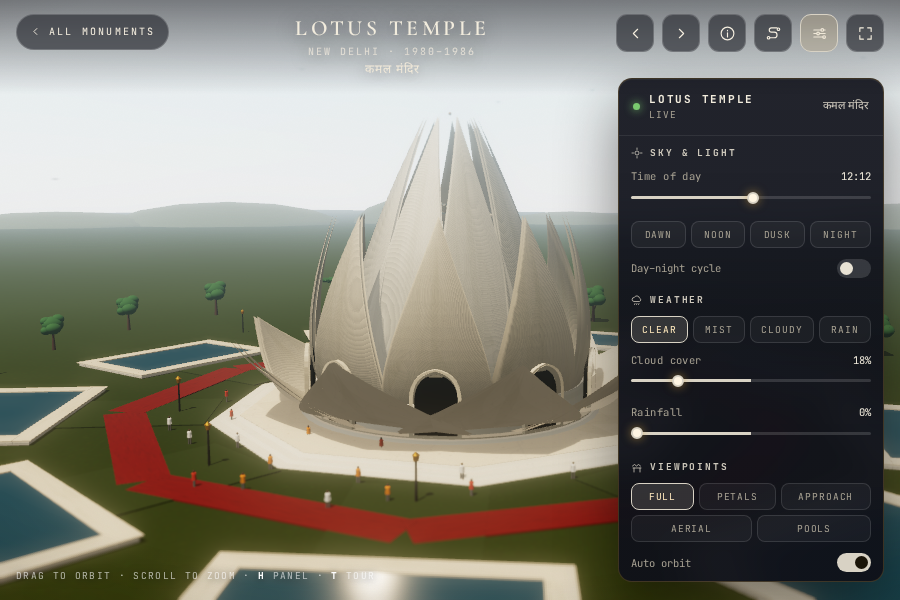
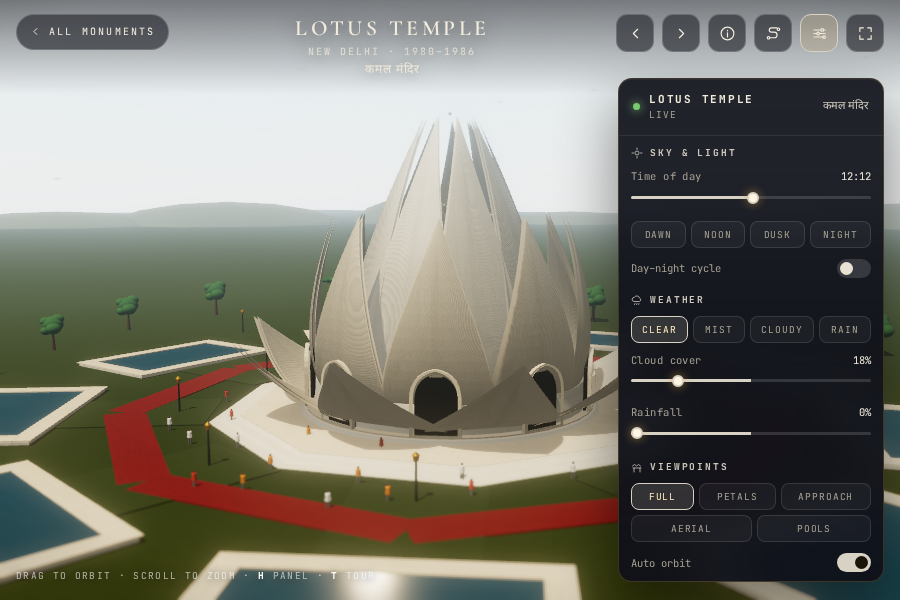
Engine: per-monument hemisphere scale; Lotus canopies narrowed
hemiScale joins floodScale: a module can lift the sky fill without changing the
engine's default for everyone. The Lotus asks for 1.9, because white marble in
shade needs more ambient than a sandstone fort does.

The canopy leaves are also narrowed from 9.6 to 6.9 half-width, so nine of them
do not overlap into a continuous skirt.

The grey band at the base is NOT fixed. Six attempts now — warmer material,
emissive, bounce light, an inner liner in a flat material, narrower canopies and
a doubled hemisphere — and the render has not moved once. Whatever those
surfaces are, my model of them is wrong, and another guess is not worth making.
Ruled out: material colour, emissive, a fill light, petal width, ambient level.

diff --git a/monuments/meenakshi-temple.html b/monuments/meenakshi-temple.html
@@ -8,8 +8,8 @@
 <meta name="theme-color" content="#d4544a">
 <meta name="author" content="Dr Sohil Momin">
 <link rel="icon" href="../assets/img/favicon.svg" type="image/svg+xml">
-<link rel="stylesheet" href="../assets/css/fonts.css?v=8a3644bd7f">
-<link rel="stylesheet" href="../assets/css/monument.css?v=8a3644bd7f">
+<link rel="stylesheet" href="../assets/css/fonts.css?v=ce1cd8d8c4">
+<link rel="stylesheet" href="../assets/css/monument.css?v=ce1cd8d8c4">
 <meta property="og:type" content="website">
 <meta property="og:title" content="Meenakshi Temple — 3D miniature · INDIA">
 <meta property="og:description" content="Fourteen painted gopurams above the Vaigai at Madurai, a temple city dedicated to Meenakshi and Sundareswarar.">
@@ -31,11 +31,11 @@
 <div id="app"></div>
 <noscript><div class="noscript">This page renders Meenakshi Temple as a live 3D model and needs JavaScript and WebGL. You can still read about the monument on <a href="https://en.wikipedia.org/wiki/Meenakshi_Temple">Wikipedia</a>.</div></noscript>
 
-<script src="../assets/js/index-data.js?v=8a3644bd7f"></script>
+<script src="../assets/js/index-data.js?v=ce1cd8d8c4"></script>
 <script>window.MONUMENT_DATA = {"name": "Meenakshi Temple", "deva": "मीनाक्षी मंदिर", "place": "Madurai", "state": "Tamil Nadu", "era": "Pandya and Vijayanagara · 12th–17th c.", "period": "12th–17th century", "style": "Dravidian", "unesco": "—", "wikipedia": "https://en.wikipedia.org/wiki/Meenakshi_Temple", "history": ["The Meenakshi Sundareswarar temple stands on the southern bank of the Vaigai at Madurai, dedicated to Meenakshi, a form of Parvati, and her consort Sundareswarar, Shiva. Sangam literature describes the temple city; the earliest structures date from Pandya rule in the 12th and 13th centuries.", "Much of the present complex was rebuilt in the 14th century and enlarged under the Vijayanagara Empire and the Nayaks, who added the great gopurams, the pillared halls and the Golden Lotus tank. Fourteen gopurams rise above the streets, the tallest nearly 52 metres high, covered in thousands of painted stucco figures.", "Inside are the Hall of a Thousand Pillars, the Potramarai tank where pilgrims bathe, and shrines to both deities. The temple remains a working centre of Tamil religious life, with around 33,000 sculptures across the complex and daily processions through the streets of the old city."], "facts": [{"k": "Dedicated to", "v": "Meenakshi and Sundareswarar"}, {"k": "Early structures", "v": "12th–13th century, Pandya"}, {"k": "Expanded by", "v": "Vijayanagara and Nayak rulers"}, {"k": "Gopurams", "v": "Fourteen, the tallest about 52 m"}, {"k": "Inside", "v": "Hall of a Thousand Pillars, Golden Lotus tank"}, {"k": "City", "v": "Madurai, on the Vaigai"}], "links": [{"label": "Wikipedia", "href": "https://en.wikipedia.org/wiki/Meenakshi_Temple"}, {"label": "Tamil Nadu tourism", "href": "https://www.tamilnadutourism.tn.gov.in/"}, {"label": "Madurai district", "href": "https://madurai.nic.in/"}], "image": {"file": "Meenakshi Temple, Gopuram, Madurai, India.jpg", "artist": "Vyacheslav Argenberg", "license": "CC BY 4.0", "licenseUrl": "https://creativecommons.org/licenses/by/4.0", "page": "https://commons.wikimedia.org/wiki/File:Meenakshi_Temple,_Gopuram,_Madurai,_India.jpg", "src": "assets/img/meenakshi-temple.jpg"}};</script>
 <script type="module">
-  import { boot } from '../assets/js/monument-engine.js?v=8a3644bd7f';
-  import monument from '../assets/js/monuments/meenakshi-temple.js?v=8a3644bd7f';
+  import { boot } from '../assets/js/monument-engine.js?v=ce1cd8d8c4';
+  import monument from '../assets/js/monuments/meenakshi-temple.js?v=ce1cd8d8c4';
   boot(monument);
 </script>
 </body>

diff --git a/monuments/golden-temple.html b/monuments/golden-temple.html
@@ -8,8 +8,8 @@
 <meta name="theme-color" content="#e0b64a">
 <meta name="author" content="Dr Sohil Momin">
 <link rel="icon" href="../assets/img/favicon.svg" type="image/svg+xml">
-<link rel="stylesheet" href="../assets/css/fonts.css?v=2fe2d13e12">
-<link rel="stylesheet" href="../assets/css/monument.css?v=2fe2d13e12">
+<link rel="stylesheet" href="../assets/css/fonts.css?v=c3b857174c">
+<link rel="stylesheet" href="../assets/css/monument.css?v=c3b857174c">
 <meta property="og:type" content="website">
 <meta property="og:title" content="Golden Temple — 3D miniature · INDIA">
 <meta property="og:description" content="Harmandir Sahib, the holiest gurdwara of Sikhism, set on an island in the Amrit Sarovar and clad in gold leaf.">
@@ -31,11 +31,11 @@
 <div id="app"></div>
 <noscript><div class="noscript">This page renders Golden Temple as a live 3D model and needs JavaScript and WebGL. You can still read about the monument on <a href="https://en.wikipedia.org/wiki/Golden_Temple">Wikipedia</a>.</div></noscript>
 
-<script src="../assets/js/index-data.js?v=2fe2d13e12"></script>
+<script src="../assets/js/index-data.js?v=c3b857174c"></script>
 <script>window.MONUMENT_DATA = {"name": "Golden Temple", "deva": "हरमंदिर साहिब", "place": "Amritsar", "state": "Punjab", "era": "Sikh · founded 1577, gilded 1830", "period": "1577 · 1830", "style": "Sikh architecture", "unesco": "On the UNESCO tentative list", "wikipedia": "https://en.wikipedia.org/wiki/Golden_Temple", "history": ["Guru Ram Das founded the town of Amritsar and began the sacred pool, the Amrit Sarovar, in 1577. His son Guru Arjan completed the Harmandir Sahib at its centre in 1604, placing it lower than the surrounding ground so that visitors step down into it, and giving it four doors facing four directions.", "The shrine was destroyed several times in the eighteenth century and rebuilt; in 1830 Maharaja Ranjit Singh had its upper storeys covered in gold leaf, which gave the building its English name. The gurdwara sits on an island reached by a causeway, its reflection held in the tank.", "The complex includes the Akal Takht, the seat of Sikh temporal authority, a clock tower, offices of the Shiromani Gurdwara Parbandhak Committee, a museum and the langar, a community kitchen that feeds every visitor free of charge, regardless of faith. Around 150,000 people come each day. The site is on UNESCO's tentative list."], "facts": [{"k": "Founded", "v": "1577 by Guru Ram Das"}, {"k": "Harmandir Sahib", "v": "Completed 1604 by Guru Arjan"}, {"k": "Gilded", "v": "1830, under Maharaja Ranjit Singh"}, {"k": "Setting", "v": "Island in the Amrit Sarovar"}, {"k": "Also here", "v": "Akal Takht, langar, museum"}, {"k": "Visitors", "v": "Around 150,000 a day"}], "links": [{"label": "Wikipedia", "href": "https://en.wikipedia.org/wiki/Golden_Temple"}, {"label": "UNESCO tentative list", "href": "https://whc.unesco.org/en/tentativelists/"}, {"label": "Punjab tourism", "href": "https://punjabtourism.punjab.gov.in/"}], "image": {"file": "The_Golden_Temple_of_Amrithsar_7.jpg", "artist": "Shagil Kannur", "license": "CC BY-SA 4.0", "licenseUrl": "https://creativecommons.org/licenses/by-sa/4.0", "page": "https://commons.wikimedia.org/wiki/File:The_Golden_Temple_of_Amrithsar_7.jpg", "src": "assets/img/golden-temple.jpg"}};</script>
 <script type="module">
-  import { boot } from '../assets/js/monument-engine.js?v=2fe2d13e12';
-  import monument from '../assets/js/monuments/golden-temple.js?v=2fe2d13e12';
+  import { boot } from '../assets/js/monument-engine.js?v=c3b857174c';
+  import monument from '../assets/js/monuments/golden-temple.js?v=c3b857174c';
   boot(monument);
 </script>
 </body>

diff --git a/monuments/qutub-minar.html b/monuments/qutub-minar.html
@@ -8,8 +8,8 @@
 <meta name="theme-color" content="#d9a441">
 <meta name="author" content="Dr Sohil Momin">
 <link rel="icon" href="../assets/img/favicon.svg" type="image/svg+xml">
-<link rel="stylesheet" href="../assets/css/fonts.css?v=f99437c4b4">
-<link rel="stylesheet" href="../assets/css/monument.css?v=f99437c4b4">
+<link rel="stylesheet" href="../assets/css/fonts.css?v=ac7fe5ae40">
+<link rel="stylesheet" href="../assets/css/monument.css?v=ac7fe5ae40">
 <meta property="og:type" content="website">
 <meta property="og:title" content="Qutb Minar — 3D miniature · INDIA">
 <meta property="og:description" content="A 72.5-metre victory tower of fluted red sandstone and marble, begun by Qutb al-Din Aibak and completed under later sultans.">
@@ -31,11 +31,11 @@
 <div id="app"></div>
 <noscript><div class="noscript">This page renders Qutb Minar as a live 3D model and needs JavaScript and WebGL. You can still read about the monument on <a href="https://en.wikipedia.org/wiki/Qutb_Minar">Wikipedia</a>.</div></noscript>
 
-<script src="../assets/js/index-data.js?v=f99437c4b4"></script>
+<script src="../assets/js/index-data.js?v=ac7fe5ae40"></script>
 <script>window.MONUMENT_DATA = {"name": "Qutb Minar", "deva": "क़ुतुब मीनार", "place": "Mehrauli, Delhi", "state": "Delhi", "era": "Delhi Sultanate · 1199–1220", "period": "1199–1220", "style": "Ghurid / early Indo-Islamic", "unesco": "UNESCO World Heritage Site (1993)", "wikipedia": "https://en.wikipedia.org/wiki/Qutb_Minar", "history": ["Qutb al-Din Aibak began the tower around 1199 to mark the founding of the Delhi Sultanate, after his defeat of Prithviraj Chauhan. He completed only the first storey; his successor Iltutmish added three more, and in 1368 Firoz Shah Tughlaq rebuilt the damaged upper storeys in white marble and set a cupola on top.", "The shaft tapers from 14.3 metres at the base to 2.75 metres at the crown, and its five storeys alternate angular and round fluting, separated by projecting balconies carried on carved brackets. Bands of white marble cut across the red sandstone, and pierced screens enclose each balcony.", "Around the tower lie the ruins of the Quwwat-ul-Islam mosque, raised in 1193 from the stones of demolished temples; the 7-metre Gupta-era iron pillar that has resisted rust for sixteen centuries; the marble-faced Alai Darwaza gateway; and the stump of Alauddin Khalji's unfinished Alai Minar. The Qutb complex became a UNESCO World Heritage Site in 1993."], "facts": [{"k": "Begun by", "v": "Qutb al-Din Aibak, c. 1199"}, {"k": "Height", "v": "72.5 m, five storeys"}, {"k": "Base to crown", "v": "14.3 m tapering to 2.75 m"}, {"k": "Materials", "v": "Red sandstone and white marble"}, {"k": "Nearby", "v": "Iron Pillar, Alai Darwaza, Alai Minar"}, {"k": "UNESCO", "v": "1993 · ref. 233"}], "links": [{"label": "Wikipedia", "href": "https://en.wikipedia.org/wiki/Qutb_Minar"}, {"label": "UNESCO listing", "href": "https://whc.unesco.org/en/list/233/"}, {"label": "ASI monument", "href": "https://asi.nic.in/"}], "image": {"file": "Qutb_Minar_2022.jpg", "artist": "Wasir kasab", "license": "CC BY 4.0", "licenseUrl": "https://creativecommons.org/licenses/by/4.0", "page": "https://commons.wikimedia.org/wiki/File:Qutb_Minar_2022.jpg", "src": "assets/img/qutub-minar.jpg"}};</script>
 <script type="module">
-  import { boot } from '../assets/js/monument-engine.js?v=f99437c4b4';
-  import monument from '../assets/js/monuments/qutub-minar.js?v=f99437c4b4';
+  import { boot } from '../assets/js/monument-engine.js?v=ac7fe5ae40';
+  import monument from '../assets/js/monuments/qutub-minar.js?v=ac7fe5ae40';
   boot(monument);
 </script>
 </body>

diff --git a/monuments/csmt-mumbai.html b/monuments/csmt-mumbai.html
@@ -8,8 +8,8 @@
 <meta name="theme-color" content="#c07a52">
 <meta name="author" content="Dr Sohil Momin">
 <link rel="icon" href="../assets/img/favicon.svg" type="image/svg+xml">
-<link rel="stylesheet" href="../assets/css/fonts.css?v=6dc830cb9f">
-<link rel="stylesheet" href="../assets/css/monument.css?v=6dc830cb9f">
+<link rel="stylesheet" href="../assets/css/fonts.css?v=3a0cba6693">
+<link rel="stylesheet" href="../assets/css/monument.css?v=3a0cba6693">
 <meta property="og:type" content="website">
 <meta property="og:title" content="CSMT, Mumbai — 3D miniature · INDIA">
 <meta property="og:description" content="Stevens’ Victorian Gothic terminus: pointed arches, a stone dome and a clock tower over one of the busiest stations in India.">
@@ -31,11 +31,11 @@
 <div id="app"></div>
 <noscript><div class="noscript">This page renders CSMT, Mumbai as a live 3D model and needs JavaScript and WebGL. You can still read about the monument on <a href="https://en.wikipedia.org/wiki/Chhatrapati_Shivaji_Maharaj_Terminus">Wikipedia</a>.</div></noscript>
 
-<script src="../assets/js/index-data.js?v=6dc830cb9f"></script>
+<script src="../assets/js/index-data.js?v=3a0cba6693"></script>
 <script>window.MONUMENT_DATA = {"name": "CSMT, Mumbai", "deva": "छत्रपति शिवाजी महाराज टर्मिनस", "place": "Mumbai", "state": "Maharashtra", "era": "British Raj · 1878–1888", "period": "1878–1888", "style": "Gothic Revival, Indo-Saracenic", "unesco": "UNESCO World Heritage Site (2004)", "wikipedia": "https://en.wikipedia.org/wiki/Chhatrapati_Shivaji_Maharaj_Terminus", "history": ["Chhatrapati Shivaji Maharaj Terminus, long known as Victoria Terminus, was built in Bombay between 1878 and 1888 to a design by Frederick William Stevens. It was the headquarters and terminus of the Great Indian Peninsula Railway, and it was named for Queen Victoria in her jubilee year.", "Stevens fused Victorian Gothic with Indian palace architecture: pointed arches and flying buttresses, gargoyles and carved animals, a ribbed stone dome with a figure of Progress on top, and a 160-foot clock tower. The plan is a symmetrical cross with the long axis of the platforms running east.", "It remains one of the busiest railway stations in the world, handling more than three million passengers a day, and in 2004 it became a UNESCO World Heritage Site, the first working railway station to be inscribed."], "facts": [{"k": "Built", "v": "1878–1888"}, {"k": "Architect", "v": "Frederick William Stevens"}, {"k": "Style", "v": "Gothic Revival with Indian detail"}, {"k": "Height", "v": "Dome about 26 m; clock tower 49 m"}, {"k": "Still", "v": "A working terminus"}, {"k": "UNESCO", "v": "2004 · ref. 945"}], "links": [{"label": "Wikipedia", "href": "https://en.wikipedia.org/wiki/Chhatrapati_Shivaji_Maharaj_Terminus"}, {"label": "UNESCO listing", "href": "https://whc.unesco.org/en/list/945/"}, {"label": "Indian Railways", "href": "https://indianrailways.gov.in/"}], "image": {"file": "Chhatrapati_shivaji_terminus,_esterno_01.jpg", "artist": "Sailko", "license": "CC BY 3.0", "licenseUrl": "https://creativecommons.org/licenses/by/3.0", "page": "https://commons.wikimedia.org/wiki/File:Chhatrapati_shivaji_terminus,_esterno_01.jpg", "src": "assets/img/csmt-mumbai.jpg"}};</script>
 <script type="module">
-  import { boot } from '../assets/js/monument-engine.js?v=6dc830cb9f';
-  import monument from '../assets/js/monuments/csmt-mumbai.js?v=6dc830cb9f';
+  import { boot } from '../assets/js/monument-engine.js?v=3a0cba6693';
+  import monument from '../assets/js/monuments/csmt-mumbai.js?v=3a0cba6693';
   boot(monument);
 </script>
 </body>

diff --git a/monuments/victoria-memorial.html b/monuments/victoria-memorial.html
@@ -8,8 +8,8 @@
 <meta name="theme-color" content="#d8d2c4">
 <meta name="author" content="Dr Sohil Momin">
 <link rel="icon" href="../assets/img/favicon.svg" type="image/svg+xml">
-<link rel="stylesheet" href="../assets/css/fonts.css?v=a35a964d61">
-<link rel="stylesheet" href="../assets/css/monument.css?v=a35a964d61">
+<link rel="stylesheet" href="../assets/css/fonts.css?v=4d55518ef0">
+<link rel="stylesheet" href="../assets/css/monument.css?v=4d55518ef0">
 <meta property="og:type" content="website">
 <meta property="og:title" content="Victoria Memorial — 3D miniature · INDIA">
 <meta property="og:description" content="A white marble domed hall on the Kolkata Maidan, the largest monument to a monarch anywhere in the world.">
@@ -31,11 +31,11 @@
 <div id="app"></div>
 <noscript><div class="noscript">This page renders Victoria Memorial as a live 3D model and needs JavaScript and WebGL. You can still read about the monument on <a href="https://en.wikipedia.org/wiki/Victoria_Memorial,_Kolkata">Wikipedia</a>.</div></noscript>
 
-<script src="../assets/js/index-data.js?v=a35a964d61"></script>
+<script src="../assets/js/index-data.js?v=4d55518ef0"></script>
 <script>window.MONUMENT_DATA = {"name": "Victoria Memorial", "deva": "विक्टोरिया मेमोरियल", "place": "Kolkata", "state": "West Bengal", "era": "British Raj · 1906–1921", "period": "1906–1921", "style": "Indo-Saracenic, with Mughal detail", "unesco": "—", "wikipedia": "https://en.wikipedia.org/wiki/Victoria_Memorial,_Kolkata", "history": ["The Victoria Memorial was proposed by Lord Curzon after Queen Victoria's death in 1901 and built between 1906 and 1921, dedicated to the memory of the Empress of India. The superstructure went up from 1910, with Martin & Co. of Calcutta as contractors.", "Its design, by William Emerson with Vincent Esch, blends Indo-Saracenic forms with Mughal detail: a central dome of Makrana marble, corner domes and domed chhatris, high arcades and a long reflecting pool aligned on the Maidan. The bronze Angel of Victory on the central dome is 4.9 metres tall and revolves on its bearings.", "The grounds cover 26 hectares on the Maidan, and the building has been a museum under the Ministry of Culture since independence, holding paintings, sculpture, manuscripts and memorabilia of the colonial period. It is the largest monument to a monarch anywhere in the world."], "facts": [{"k": "Built", "v": "1906–1921"}, {"k": "Proposed by", "v": "Lord Curzon"}, {"k": "Architects", "v": "William Emerson, Vincent Esch"}, {"k": "Material", "v": "Makrana marble"}, {"k": "Grounds", "v": "26 hectares on the Maidan"}, {"k": "Now", "v": "Museum, Ministry of Culture"}], "links": [{"label": "Wikipedia", "href": "https://en.wikipedia.org/wiki/Victoria_Memorial,_Kolkata"}, {"label": "Museum website", "href": "https://victoriamemorial-cal.org/"}, {"label": "West Bengal tourism", "href": "https://wbtourism.gov.in/"}], "image": {"file": "Victoria_Memorial_situated_in_Kolkata.jpg", "artist": "Subhrajyoti07", "license": "CC BY-SA 4.0", "licenseUrl": "https://creativecommons.org/licenses/by-sa/4.0", "page": "https://commons.wikimedia.org/wiki/File:Victoria_Memorial_situated_in_Kolkata.jpg", "src": "assets/img/victoria-memorial-kolkata.jpg"}};</script>
 <script type="module">
-  import { boot } from '../assets/js/monument-engine.js?v=a35a964d61';
-  import monument from '../assets/js/monuments/victoria-memorial.js?v=a35a964d61';
+  import { boot } from '../assets/js/monument-engine.js?v=4d55518ef0';
+  import monument from '../assets/js/monuments/victoria-memorial.js?v=4d55518ef0';
   boot(monument);
 </script>
 </body>

diff --git a/monuments/hawa-mahal.html b/monuments/hawa-mahal.html
@@ -8,8 +8,8 @@
 <meta name="theme-color" content="#e0895f">
 <meta name="author" content="Dr Sohil Momin">
 <link rel="icon" href="../assets/img/favicon.svg" type="image/svg+xml">
-<link rel="stylesheet" href="../assets/css/fonts.css?v=55bc0c8b04">
-<link rel="stylesheet" href="../assets/css/monument.css?v=55bc0c8b04">
+<link rel="stylesheet" href="../assets/css/fonts.css?v=f33ab65dd3">
+<link rel="stylesheet" href="../assets/css/monument.css?v=f33ab65dd3">
 <meta property="og:type" content="website">
 <meta property="og:title" content="Hawa Mahal — 3D miniature · INDIA">
 <meta property="og:description" content="A honeycomb screen of 953 latticed windows in red and pink sandstone, built so the women of the palace could watch the street unseen.">
@@ -31,11 +31,11 @@
 <div id="app"></div>
 <noscript><div class="noscript">This page renders Hawa Mahal as a live 3D model and needs JavaScript and WebGL. You can still read about the monument on <a href="https://en.wikipedia.org/wiki/Hawa_Mahal">Wikipedia</a>.</div></noscript>
 
-<script src="../assets/js/index-data.js?v=55bc0c8b04"></script>
+<script src="../assets/js/index-data.js?v=f33ab65dd3"></script>
 <script>window.MONUMENT_DATA = {"name": "Hawa Mahal", "deva": "हवा महल", "place": "Jaipur", "state": "Rajasthan", "era": "Rajput · 1799", "period": "1799", "style": "Rajput, with Mughal jharokha work", "unesco": "Part of Jaipur City, UNESCO World Heritage Site (2019)", "wikipedia": "https://en.wikipedia.org/wiki/Hawa_Mahal", "history": ["Maharaja Sawai Pratap Singh built the Hawa Mahal in 1799 as an extension of the City Palace, reaching towards the women's quarters, the zenana. It was designed by Lal Chand Ustad, who shaped it like the crown of Krishna, with five storeys rising like a pyramid.", "Its name means Palace of Winds. The 953 small jharokha windows are set in a honeycomb of carved sandstone, and the lattice draws cool air through the building: a working ventilation system for Jaipur's summers, with fountains once cooling the interior further.", "The building is little more than its facade; the palace behind it is a thin, curved screen. Red and pink sandstone, small domes and the jaali screens give the street-facing wall its lace-like texture. In 2019 the walled city of Jaipur, including the Hawa Mahal, was inscribed as a UNESCO World Heritage Site."], "facts": [{"k": "Built", "v": "1799"}, {"k": "Commissioned by", "v": "Maharaja Sawai Pratap Singh"}, {"k": "Architect", "v": "Lal Chand Ustad"}, {"k": "Windows", "v": "953 jharokhas in five storeys"}, {"k": "Material", "v": "Red and pink sandstone"}, {"k": "UNESCO", "v": "Jaipur City, 2019 · ref. 1605"}], "links": [{"label": "Wikipedia", "href": "https://en.wikipedia.org/wiki/Hawa_Mahal"}, {"label": "UNESCO listing", "href": "https://whc.unesco.org/en/list/1605/"}, {"label": "Rajasthan tourism", "href": "https://www.tourism.rajasthan.gov.in/"}], "image": {"file": "East_facade_Hawa_Mahal_Jaipur_from_ground_level_(July_2022)_-_img_01.jpg", "artist": "Chainwit.", "license": "CC BY-SA 4.0", "licenseUrl": "https://creativecommons.org/licenses/by-sa/4.0", "page": "https://commons.wikimedia.org/wiki/File:East_facade_Hawa_Mahal_Jaipur_from_ground_level_(July_2022)_-_img_01.jpg", "src": "assets/img/hawa-mahal.jpg"}};</script>
 <script type="module">
-  import { boot } from '../assets/js/monument-engine.js?v=55bc0c8b04';
-  import monument from '../assets/js/monuments/hawa-mahal.js?v=55bc0c8b04';
+  import { boot } from '../assets/js/monument-engine.js?v=f33ab65dd3';
+  import monument from '../assets/js/monuments/hawa-mahal.js?v=f33ab65dd3';
   boot(monument);
 </script>
 </body>

diff --git a/monuments/sanchi-stupa.html b/monuments/sanchi-stupa.html
@@ -8,8 +8,8 @@
 <meta name="theme-color" content="#b8a888">
 <meta name="author" content="Dr Sohil Momin">
 <link rel="icon" href="../assets/img/favicon.svg" type="image/svg+xml">
-<link rel="stylesheet" href="../assets/css/fonts.css?v=05e55fb5aa">
-<link rel="stylesheet" href="../assets/css/monument.css?v=05e55fb5aa">
+<link rel="stylesheet" href="../assets/css/fonts.css?v=ccc950e045">
+<link rel="stylesheet" href="../assets/css/monument.css?v=ccc950e045">
 <meta property="og:type" content="website">
 <meta property="og:title" content="Sanchi Stupa — 3D miniature · INDIA">
 <meta property="og:description" content="Ashoka&#x27;s hemispherical relic mound, ringed by a stone railing and four carved gateways on a hill above the plain.">
@@ -31,11 +31,11 @@
 <div id="app"></div>
 <noscript><div class="noscript">This page renders Sanchi Stupa as a live 3D model and needs JavaScript and WebGL. You can still read about the monument on <a href="https://en.wikipedia.org/wiki/Sanchi">Wikipedia</a>.</div></noscript>
 
-<script src="../assets/js/index-data.js?v=05e55fb5aa"></script>
+<script src="../assets/js/index-data.js?v=ccc950e045"></script>
 <script>window.MONUMENT_DATA = {"name": "Sanchi Stupa", "deva": "साँची का स्तूप", "place": "Sanchi", "state": "Madhya Pradesh", "era": "Mauryan · 3rd century BCE", "period": "3rd c. BCE onward", "style": "Buddhist stupa architecture", "unesco": "UNESCO World Heritage Site (1989)", "wikipedia": "https://en.wikipedia.org/wiki/Sanchi", "history": ["The Great Stupa at Sanchi was commissioned by the Mauryan emperor Ashoka in the 3rd century BCE. Its core was a simple hemispherical brick dome raised over relics of the Buddha, crowned by a chatra, the parasol that marks a place of honour.", "Under later dynasties the stupa was enlarged to roughly twice its original size and faced in stone. A stone vedika, or railing, was built around the dome and the terrace, and four carved toranas were added at the cardinal points in the 1st century BCE, their lintels crowded with scenes from the life of the Buddha.", "The site grew into a complex of monasteries, temples and smaller stupas that was occupied for more than a thousand years before being abandoned. Rediscovered and conserved in the nineteenth and twentieth centuries, it became a UNESCO World Heritage Site in 1989."], "facts": [{"k": "Commissioned by", "v": "Ashoka, 3rd century BCE"}, {"k": "Dome", "v": "Hemispherical brick, faced in stone"}, {"k": "Gateways", "v": "Four carved toranas, 1st c. BCE"}, {"k": "Setting", "v": "Hilltop at Sanchi, Raisen district"}, {"k": "Complex", "v": "Monasteries, temples, smaller stupas"}, {"k": "UNESCO", "v": "1989 · ref. 524"}], "links": [{"label": "Wikipedia", "href": "https://en.wikipedia.org/wiki/Sanchi"}, {"label": "UNESCO listing", "href": "https://whc.unesco.org/en/list/524/"}, {"label": "MP tourism", "href": "https://www.mptourism.com/"}], "image": {"file": "East_Gateway_-_Stupa_1_-_Sanchi_Hill_2013-02-21_4398.JPG", "artist": "Biswarup Ganguly", "license": "CC BY 3.0", "licenseUrl": "https://creativecommons.org/licenses/by/3.0", "page": "https://commons.wikimedia.org/wiki/File:East_Gateway_-_Stupa_1_-_Sanchi_Hill_2013-02-21_4398.JPG", "src": "assets/img/sanchi.jpg"}};</script>
 <script type="module">
-  import { boot } from '../assets/js/monument-engine.js?v=05e55fb5aa';
-  import monument from '../assets/js/monuments/sanchi-stupa.js?v=05e55fb5aa';
+  import { boot } from '../assets/js/monument-engine.js?v=ccc950e045';
+  import monument from '../assets/js/monuments/sanchi-stupa.js?v=ccc950e045';
   boot(monument);
 </script>
 </body>

diff --git a/monuments/konark-sun-temple.html b/monuments/konark-sun-temple.html
@@ -8,8 +8,8 @@
 <meta name="theme-color" content="#b8865a">
 <meta name="author" content="Dr Sohil Momin">
 <link rel="icon" href="../assets/img/favicon.svg" type="image/svg+xml">
-<link rel="stylesheet" href="../assets/css/fonts.css?v=5c993cfecf">
-<link rel="stylesheet" href="../assets/css/monument.css?v=5c993cfecf">
+<link rel="stylesheet" href="../assets/css/fonts.css?v=e3d16e56be">
+<link rel="stylesheet" href="../assets/css/monument.css?v=e3d16e56be">
 <meta property="og:type" content="website">
 <meta property="og:title" content="Konark Sun Temple — 3D miniature · INDIA">
 <meta property="og:description" content="A stone chariot for the sun god, with 24 carved wheels, seven horses and a tower that once stood 61 metres high.">
@@ -31,11 +31,11 @@
 <div id="app"></div>
 <noscript><div class="noscript">This page renders Konark Sun Temple as a live 3D model and needs JavaScript and WebGL. You can still read about the monument on <a href="https://en.wikipedia.org/wiki/Konark_Sun_Temple">Wikipedia</a>.</div></noscript>
 
-<script src="../assets/js/index-data.js?v=5c993cfecf"></script>
+<script src="../assets/js/index-data.js?v=e3d16e56be"></script>
 <script>window.MONUMENT_DATA = {"name": "Konark Sun Temple", "deva": "कोणार्क सूर्य मंदिर", "place": "Konark", "state": "Odisha", "era": "Eastern Ganga · c. 1250", "period": "c. 1250", "style": "Kalinga architecture", "unesco": "UNESCO World Heritage Site (1984)", "wikipedia": "https://en.wikipedia.org/wiki/Konark_Sun_Temple", "history": ["Narasingha Deva I of the Eastern Ganga dynasty built the Sun Temple at Konark around 1250, on the Odisha coast about 35 kilometres from Puri. It was conceived as the chariot of Surya, with twenty-four great stone wheels, seven horses and a vast processional stair.", "The main sanctuary tower, the deul, is estimated to have risen over 61 metres; it collapsed long ago, and the surviving jagamohana, the assembly hall, stands about 30 metres high with its pyramidal roof of tiers. The whole structure was once set in a walled compound with subsidiary shrines.", "Its surfaces are carved with dancers, musicians, elephants and mythical beasts, with the kama and mithuna scenes for which the temple is famous, and bands of geometric ornament between them. The site was inscribed as a UNESCO World Heritage Site in 1984 and is one of the finest examples of Kalinga architecture."], "facts": [{"k": "Built", "v": "c. 1250 CE"}, {"k": "Commissioned by", "v": "Narasingha Deva I"}, {"k": "Form", "v": "Chariot of Surya, 24 wheels"}, {"k": "Surviving height", "v": "About 30 m of the assembly hall"}, {"k": "Style", "v": "Kalinga, Eastern Ganga"}, {"k": "UNESCO", "v": "1984 · ref. 246"}], "links": [{"label": "Wikipedia", "href": "https://en.wikipedia.org/wiki/Konark_Sun_Temple"}, {"label": "UNESCO listing", "href": "https://whc.unesco.org/en/list/246/"}, {"label": "Odisha tourism", "href": "https://odishatourism.gov.in/"}], "image": {"file": "Konarka_Temple.jpg", "artist": "Subham9423", "license": "CC BY-SA 4.0", "licenseUrl": "https://creativecommons.org/licenses/by-sa/4.0", "page": "https://commons.wikimedia.org/wiki/File:Konarka_Temple.jpg", "src": "assets/img/konark-sun-temple.jpg"}};</script>
 <script type="module">
-  import { boot } from '../assets/js/monument-engine.js?v=5c993cfecf';
-  import monument from '../assets/js/monuments/konark-sun-temple.js?v=5c993cfecf';
+  import { boot } from '../assets/js/monument-engine.js?v=e3d16e56be';
+  import monument from '../assets/js/monuments/konark-sun-temple.js?v=e3d16e56be';
   boot(monument);
 </script>
 </body>

diff --git a/monuments/kandariya-mahadeva.html b/monuments/kandariya-mahadeva.html
@@ -8,8 +8,8 @@
 <meta name="theme-color" content="#c9a878">
 <meta name="author" content="Dr Sohil Momin">
 <link rel="icon" href="../assets/img/favicon.svg" type="image/svg+xml">
-<link rel="stylesheet" href="../assets/css/fonts.css?v=065c016527">
-<link rel="stylesheet" href="../assets/css/monument.css?v=065c016527">
+<link rel="stylesheet" href="../assets/css/fonts.css?v=5bf3dfd726">
+<link rel="stylesheet" href="../assets/css/monument.css?v=5bf3dfd726">
 <meta property="og:type" content="website">
 <meta property="og:title" content="Kandariya Mahadeva — 3D miniature · INDIA">
 <meta property="og:description" content="The tallest of the Khajuraho temples: a 31-metre mountain of sandstone covered in carved figures.">
@@ -31,11 +31,11 @@
 <div id="app"></div>
 <noscript><div class="noscript">This page renders Kandariya Mahadeva as a live 3D model and needs JavaScript and WebGL. You can still read about the monument on <a href="https://en.wikipedia.org/wiki/Kandariya_Mahadeva_Temple">Wikipedia</a>.</div></noscript>
 
-<script src="../assets/js/index-data.js?v=065c016527"></script>
+<script src="../assets/js/index-data.js?v=5bf3dfd726"></script>
 <script>window.MONUMENT_DATA = {"name": "Kandariya Mahadeva", "deva": "कंदारिया महादेव मंदिर", "place": "Khajuraho", "state": "Madhya Pradesh", "era": "Chandela · c. 1030", "period": "c. 1030", "style": "Nagara, Khajuraho school", "unesco": "UNESCO World Heritage Site (1986)", "wikipedia": "https://en.wikipedia.org/wiki/Kandariya_Mahadeva_Temple", "history": ["The Kandariya Mahadeva is the largest and tallest of the temples at Khajuraho, built by the Chandela kings of central India around 1030 CE, probably under Vidyadhara. It is dedicated to Shiva and stands on a high platform with a five-part plan around a central shrine.", "Its tower rises about 31 metres in a curve of stacked tiers, each with a row of small turrets, so the shikhara reads as a mountain with subsidiary peaks. The walls carry some 870 sculptures of gods, nymphs, musicians, mithuna couples and animals, carved in a soft sandstone that has kept its detail for a thousand years.", "The temples were built in a burst of activity between about 950 and 1050 and then abandoned; the site was remote enough that it escaped destruction, and it was brought to notice again in the nineteenth century. Khajuraho became a UNESCO World Heritage Site in 1986."], "facts": [{"k": "Built", "v": "c. 1025–1050 CE"}, {"k": "Dynasty", "v": "Chandela"}, {"k": "Height", "v": "About 31 m"}, {"k": "Sculptures", "v": "Around 870 figures"}, {"k": "Style", "v": "Nagara, Khajuraho school"}, {"k": "UNESCO", "v": "1986 · ref. 240"}], "links": [{"label": "Wikipedia", "href": "https://en.wikipedia.org/wiki/Kandariya_Mahadeva_Temple"}, {"label": "UNESCO listing", "href": "https://whc.unesco.org/en/list/240/"}, {"label": "MP tourism", "href": "https://www.mptourism.com/"}], "image": {"file": "Khajuraho.KandariyaMahadeva.jpg", "artist": "China Crisis", "license": "CC BY-SA 3.0", "licenseUrl": "https://creativecommons.org/licenses/by-sa/3.0", "page": "https://commons.wikimedia.org/wiki/File:Khajuraho.KandariyaMahadeva.jpg", "src": "assets/img/kandariya-mahadeva.jpg"}};</script>
 <script type="module">
-  import { boot } from '../assets/js/monument-engine.js?v=065c016527';
-  import monument from '../assets/js/monuments/kandariya-mahadeva.js?v=065c016527';
+  import { boot } from '../assets/js/monument-engine.js?v=5bf3dfd726';
+  import monument from '../assets/js/monuments/kandariya-mahadeva.js?v=5bf3dfd726';
   boot(monument);
 </script>
 </body>

diff --git a/monuments/mahabodhi-temple.html b/monuments/mahabodhi-temple.html
@@ -8,8 +8,8 @@
 <meta name="theme-color" content="#c8b49a">
 <meta name="author" content="Dr Sohil Momin">
 <link rel="icon" href="../assets/img/favicon.svg" type="image/svg+xml">
-<link rel="stylesheet" href="../assets/css/fonts.css?v=74217663ec">
-<link rel="stylesheet" href="../assets/css/monument.css?v=74217663ec">
+<link rel="stylesheet" href="../assets/css/fonts.css?v=a1a0390f88">
+<link rel="stylesheet" href="../assets/css/monument.css?v=a1a0390f88">
 <meta property="og:type" content="website">
 <meta property="og:title" content="Mahabodhi Temple — 3D miniature · INDIA">
 <meta property="og:description" content="The brick tower at Bodh Gaya raised where the Buddha attained enlightenment: one of the oldest brick temples surviving in India.">
@@ -31,11 +31,11 @@
 <div id="app"></div>
 <noscript><div class="noscript">This page renders Mahabodhi Temple as a live 3D model and needs JavaScript and WebGL. You can still read about the monument on <a href="https://en.wikipedia.org/wiki/Mahabodhi_Temple">Wikipedia</a>.</div></noscript>
 
-<script src="../assets/js/index-data.js?v=74217663ec"></script>
+<script src="../assets/js/index-data.js?v=a1a0390f88"></script>
 <script>window.MONUMENT_DATA = {"name": "Mahabodhi Temple", "deva": "महाबोधि मंदिर", "place": "Bodh Gaya", "state": "Bihar", "era": "Mauryan to Gupta · 3rd c. BCE – 6th c. CE", "period": "3rd c. BCE onward", "style": "Buddhist brick temple", "unesco": "UNESCO World Heritage Site (2002)", "wikipedia": "https://en.wikipedia.org/wiki/Mahabodhi_Temple", "history": ["The Mahabodhi Temple stands at Bodh Gaya, beside the Bodhi tree, under which the Buddha attained enlightenment. Ashoka built a shrine here in the 3rd century BCE; the present temple is usually dated to the 5th or 6th century CE, in the Gupta period, and it is one of the oldest brick temples surviving in India.", "Its tower rises about 52 metres, straight-sided and tapering, made of brick covered in plaster and crowded with niches holding images of the Buddha. A railing of carved stone, part of it from the Mauryan period, surrounds the site, and the descendant of the original Bodhi tree stands to the west.", "The temple fell into ruin and was restored in the 19th century under Burmese and British patronage, and it has been in continuous worship for well over a thousand years. It became a UNESCO World Heritage Site in 2002."], "facts": [{"k": "Founded", "v": "3rd century BCE, Ashoka"}, {"k": "Present temple", "v": "5th–6th century CE"}, {"k": "Height", "v": "About 52 m"}, {"k": "Material", "v": "Brick, plaster, stone railing"}, {"k": "Beside", "v": "The Bodhi tree"}, {"k": "UNESCO", "v": "2002 · ref. 1056"}], "links": [{"label": "Wikipedia", "href": "https://en.wikipedia.org/wiki/Mahabodhi_Temple"}, {"label": "UNESCO listing", "href": "https://whc.unesco.org/en/list/1056/"}, {"label": "Bihar tourism", "href": "https://www.bihartourism.gov.in/"}], "image": {"file": "Mahabodhitemple.jpg", "artist": "Bpilgrim", "license": "CC BY-SA 2.5", "licenseUrl": "https://creativecommons.org/licenses/by-sa/2.5", "page": "https://commons.wikimedia.org/wiki/File:Mahabodhitemple.jpg", "src": "assets/img/mahabodhi-temple.jpg"}};</script>
 <script type="module">
-  import { boot } from '../assets/js/monument-engine.js?v=74217663ec';
-  import monument from '../assets/js/monuments/mahabodhi-temple.js?v=74217663ec';
+  import { boot } from '../assets/js/monument-engine.js?v=a1a0390f88';
+  import monument from '../assets/js/monuments/mahabodhi-temple.js?v=a1a0390f88';
   boot(monument);
 </script>
 </body>

diff --git a/monuments/mehrangarh-fort.html b/monuments/mehrangarh-fort.html
@@ -8,8 +8,8 @@
 <meta name="theme-color" content="#c08a5a">
 <meta name="author" content="Dr Sohil Momin">
 <link rel="icon" href="../assets/img/favicon.svg" type="image/svg+xml">
-<link rel="stylesheet" href="../assets/css/fonts.css?v=4e9c4569d9">
-<link rel="stylesheet" href="../assets/css/monument.css?v=4e9c4569d9">
+<link rel="stylesheet" href="../assets/css/fonts.css?v=8700e2208d">
+<link rel="stylesheet" href="../assets/css/monument.css?v=8700e2208d">
 <meta property="og:type" content="website">
 <meta property="og:title" content="Mehrangarh — 3D miniature · INDIA">
 <meta property="og:description" content="A fort on a 120-metre rock above Jodhpur, its walls up to 36 metres high and 21 metres thick.">
@@ -31,11 +31,11 @@
 <div id="app"></div>
 <noscript><div class="noscript">This page renders Mehrangarh as a live 3D model and needs JavaScript and WebGL. You can still read about the monument on <a href="https://en.wikipedia.org/wiki/Mehrangarh">Wikipedia</a>.</div></noscript>
 
-<script src="../assets/js/index-data.js?v=4e9c4569d9"></script>
+<script src="../assets/js/index-data.js?v=8700e2208d"></script>
 <script>window.MONUMENT_DATA = {"name": "Mehrangarh", "deva": "मेहरानगढ़ किला", "place": "Jodhpur", "state": "Rajasthan", "era": "Rathore Rajput · from 1459", "period": "1459 onward", "style": "Rajput fortification", "unesco": "—", "wikipedia": "https://en.wikipedia.org/wiki/Mehrangarh", "history": ["Rao Jodha founded Mehrangarh in 1459, on a rocky hill above the new city of Jodhpur. The name means fort of the sun, and the Rathore rulers held it, with interruptions, until independence; most of what stands today was built between the seventeenth and nineteenth centuries.", "Its walls rise up to 36 metres above the rock and are up to 21 metres thick in places, with seven gates, each named for a battle or a victory. Inside are the palaces, among them the Moti Mahal, the Phool Mahal with its gold ceiling, the Sheesh Mahal and the Takhat Vilas, set around courtyards with pierced screens and coloured glass.", "Below the walls the blue city spreads out, and the fort still carries the marks of its sieges: cannonball scars on the second gate, and the handprints of the widows who immolated themselves at its sati gate. It is now a museum run by a trust, and one of the most visited forts in Rajasthan."], "facts": [{"k": "Founded", "v": "1459, by Rao Jodha"}, {"k": "Above the city", "v": "About 120 m"}, {"k": "Walls", "v": "Up to 36 m high, 21 m thick"}, {"k": "Gates", "v": "Seven"}, {"k": "Palaces", "v": "Moti Mahal, Phool Mahal, Sheesh Mahal"}, {"k": "Now", "v": "Museum and heritage trust"}], "links": [{"label": "Wikipedia", "href": "https://en.wikipedia.org/wiki/Mehrangarh"}, {"label": "Fort website", "href": "https://www.mehrangarh.org/"}, {"label": "Rajasthan tourism", "href": "https://www.tourism.rajasthan.gov.in/"}], "image": {"file": "Mehrangarh_Fort_sanhita.jpg", "artist": "Sanhitasinha", "license": "CC BY-SA 4.0", "licenseUrl": "https://creativecommons.org/licenses/by-sa/4.0", "page": "https://commons.wikimedia.org/wiki/File:Mehrangarh_Fort_sanhita.jpg", "src": "assets/img/mehrangarh-fort.jpg"}};</script>
 <script type="module">
-  import { boot } from '../assets/js/monument-engine.js?v=4e9c4569d9';
-  import monument from '../assets/js/monuments/mehrangarh-fort.js?v=4e9c4569d9';
+  import { boot } from '../assets/js/monument-engine.js?v=8700e2208d';
+  import monument from '../assets/js/monuments/mehrangarh-fort.js?v=8700e2208d';
   boot(monument);
 </script>
 </body>

diff --git a/monuments/amber-fort.html b/monuments/amber-fort.html
@@ -8,8 +8,8 @@
 <meta name="theme-color" content="#d8a86a">
 <meta name="author" content="Dr Sohil Momin">
 <link rel="icon" href="../assets/img/favicon.svg" type="image/svg+xml">
-<link rel="stylesheet" href="../assets/css/fonts.css?v=5b5ceda822">
-<link rel="stylesheet" href="../assets/css/monument.css?v=5b5ceda822">
+<link rel="stylesheet" href="../assets/css/fonts.css?v=e9e486b03c">
+<link rel="stylesheet" href="../assets/css/monument.css?v=e9e486b03c">
 <meta property="og:type" content="website">
 <meta property="og:title" content="Amber Fort — 3D miniature · INDIA">
 <meta property="og:description" content="A hilltop palace of yellow sandstone above Maota Lake, its ramparts running along the Aravalli ridge.">
@@ -31,11 +31,11 @@
 <div id="app"></div>
 <noscript><div class="noscript">This page renders Amber Fort as a live 3D model and needs JavaScript and WebGL. You can still read about the monument on <a href="https://en.wikipedia.org/wiki/Amber_Fort">Wikipedia</a>.</div></noscript>
 
-<script src="../assets/js/index-data.js?v=5b5ceda822"></script>
+<script src="../assets/js/index-data.js?v=e9e486b03c"></script>
 <script>window.MONUMENT_DATA = {"name": "Amber Fort", "deva": "आमेर किला", "place": "Amer, Jaipur", "state": "Rajasthan", "era": "Kachwaha Rajput · from 1592", "period": "1592 onward", "style": "Rajput, with Mughal influence", "unesco": "Part of the Hill Forts of Rajasthan, UNESCO (2013)", "wikipedia": "https://en.wikipedia.org/wiki/Amber_Fort", "history": ["Amber Fort was begun in 1592 by Raja Man Singh I of the Kachwaha Rajputs, on the ridge above the Maota lake outside Jaipur. It was the seat of the rulers of Amber for more than a century, until the court moved down to the new city of Jaipur in 1727.", "Inside the walls are a sequence of courtyards: the Diwan-i-Aam for public audience, the Ganesh Pol gateway with its painted arches, and the Sheesh Mahal, a hall whose walls and ceilings are covered in thousands of mirror pieces so that a single lamp fills the room with light.", "The fort climbs the hill in terraces, with a long crenellated rampart and watchtowers running along the ridge above it, and the Maota lake and its garden below. In 2013 the fort was inscribed, with five others, as part of the Hill Forts of Rajasthan."], "facts": [{"k": "Begun", "v": "1592"}, {"k": "Patron", "v": "Raja Man Singh I"}, {"k": "Dynasty", "v": "Kachwaha Rajput"}, {"k": "Material", "v": "Yellow and red sandstone, marble"}, {"k": "Highlights", "v": "Sheesh Mahal, Ganesh Pol, Maota lake"}, {"k": "UNESCO", "v": "Hill Forts of Rajasthan, 2013 · ref. 247"}], "links": [{"label": "Wikipedia", "href": "https://en.wikipedia.org/wiki/Amber_Fort"}, {"label": "UNESCO listing", "href": "https://whc.unesco.org/en/list/247/"}, {"label": "Rajasthan tourism", "href": "https://www.tourism.rajasthan.gov.in/"}], "image": {"file": "20191219_Fort_Amber,_Amer,_Jaipur_0955_9481.jpg", "artist": "Jakub Hałun", "license": "CC BY-SA 4.0", "licenseUrl": "https://creativecommons.org/licenses/by-sa/4.0", "page": "https://commons.wikimedia.org/wiki/File:20191219_Fort_Amber,_Amer,_Jaipur_0955_9481.jpg", "src": "assets/img/amber-fort.jpg"}};</script>
 <script type="module">
-  import { boot } from '../assets/js/monument-engine.js?v=5b5ceda822';
-  import monument from '../assets/js/monuments/amber-fort.js?v=5b5ceda822';
+  import { boot } from '../assets/js/monument-engine.js?v=e9e486b03c';
+  import monument from '../assets/js/monuments/amber-fort.js?v=e9e486b03c';
   boot(monument);
 </script>
 </body>
